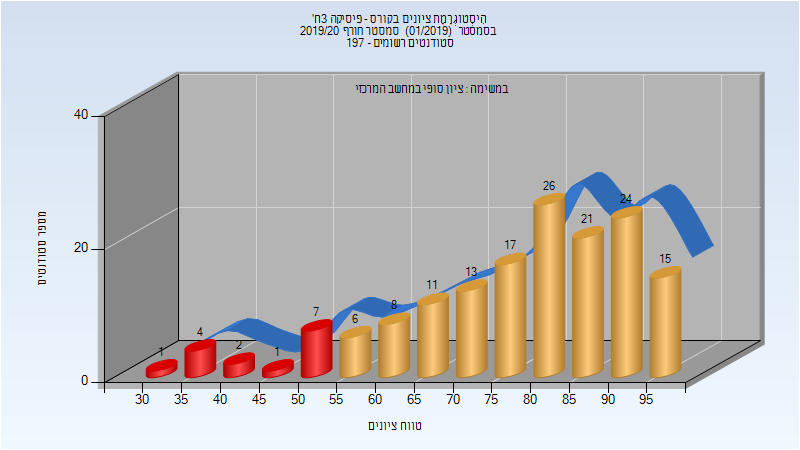
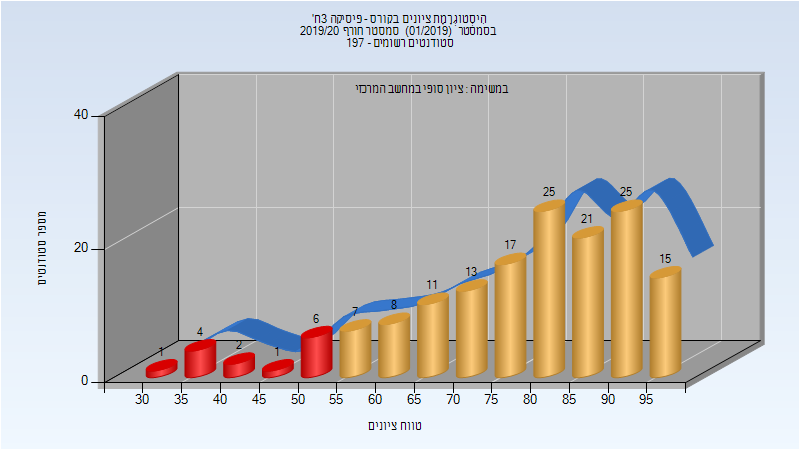
Deploy michael-maltsev/technion-histograms to github.com/michael-maltsev/technion-histograms.git:gh-pages

Changed region(s): [[0.6562, 0.3733, 0.875, 0.4978], [0.375, 0.6533, 0.5312, 0.7467]]

diff --git a/114073/index.html b/114073/index.html
@@ -829,11 +829,11 @@
 <tbody>
 <tr>
 <td>156</td>
-<td>141/15</td>
-<td>90</td>
+<td>142/14</td>
+<td>91</td>
 <td>33</td>
 <td>99</td>
-<td>77.532</td>
+<td>77.596</td>
 <td>81</td>
 </tr>
 </tbody>

diff --git a/114073/README.md b/114073/README.md
@@ -260,5 +260,5 @@
 
 | סטודנטים | עברו/נכשלו | אחוז עוברים | ציון מינימלי | ציון מקסימלי | ממוצע | חציון |
 | ---- | ---- | ---- | ---- | ---- | ---- | ---- |
-| 156 | 141/15 | 90 | 33 | 99 | 77.532 | 81 |
+| 156 | 142/14 | 91 | 33 | 99 | 77.596 | 81 |
 
